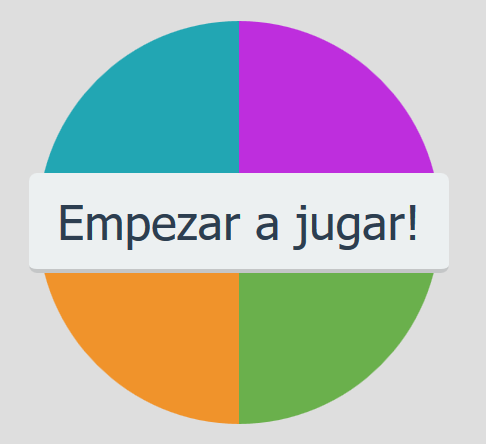
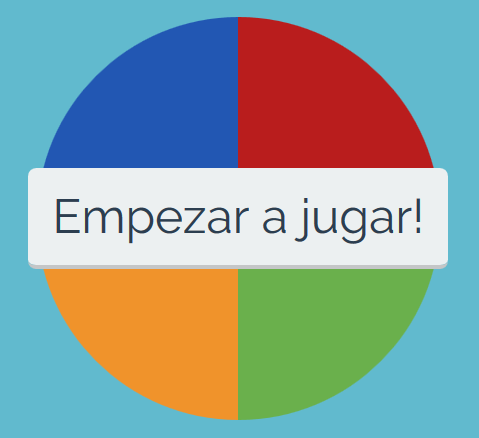
simon dice terminado

diff --git a/games/simondice/index.js b/games/simondice/index.js
@@ -1,18 +1,30 @@
-const azul = document.getElementById('azul')
-const rojo = document.getElementById('rojo')
-const naranja = document.getElementById('naranja')
-const verde = document.getElementById('verde')
-const verdeAudio = new Audio('./../../assets/audio/green.mp3')
-const rojoAudio = new Audio('./../../assets/audio/red.mp3')
-const azulAudio = new Audio('./../../assets/audio/blue.mp3')
-const naranjaAudio = new Audio('./../../assets/audio/naranja.mp3')
-const audioPerder = new Audio('./../../assets/audio/lose.mp3')
-const ULTIMO_NIVEL = 10
+let listaPuntajes = []
+let ULTIMO_NIVEL
 const btnEmpezar = document.getElementById('btnEmpezar')
 btnEmpezar.addEventListener('click', empezarJuego)
 
+function mensajeInicial(texto = 'Elige un nivel') {
+    return swal({
+        text: texto,
+        content: 'input',
+        button: {
+            text: "Go!",
+        },
+        closeOnClickOutside: false,
+        closeOnEsc: false
+    }).then(nivel => {
+        if (Number(nivel)) {
+            ULTIMO_NIVEL = Number(nivel)
+        } else {
+            mensajeInicial('Coloque el nivel adecuadamente')
+        }
+    })
+}
+
+mensajeInicial()
 class Juego {
     constructor() {
+        this.iniciarTiempo()
         this.inicializar()
         this.generarSecuencia()
         setTimeout(this.siguienteNivel, 500)
@@ -25,18 +37,19 @@ class Juego {
         btnEmpezar.classList.toggle('hide')
         this.nivel = 1
         this.colores = {
-            azul,
-            rojo,
-            naranja,
-            verde
+            azul: document.getElementById('azul'),
+            rojo: document.getElementById('rojo'),
+            naranja: document.getElementById('naranja'),
+            verde: document.getElementById('verde')
         },
         this.audio = {
-            azul: azulAudio,
-            rojo: rojoAudio,
-            naranja: naranjaAudio,
-            verde: verdeAudio
+            azul: new Audio('./../../assets/audio/blue.mp3'),
+            rojo: new Audio('./../../assets/audio/red.mp3'),
+            naranja: new Audio('./../../assets/audio/naranja.mp3'),
+            verde: new Audio('./../../assets/audio/green.mp3')
         },
-        this.derrota = audioPerder
+        this.derrota = new Audio('./../../assets/audio/lose.mp3'),
+        this.intervalTimer
     }
 
     generarSecuencia() {
@@ -93,7 +106,7 @@ class Juego {
     }
 
     agregarEventosClick() {
-        for(let color in this.colores) {
+        for (let color in this.colores) {
             this.colores[color].addEventListener('click', this.elegirColor)
         }
     }
@@ -114,24 +127,60 @@ class Juego {
                 this.nivel++
                 this.eliminarEventosClick()
                 if (this.nivel === (ULTIMO_NIVEL + 1)) {
+                    clearInterval(this.intervalTimer)
                     this.ganoElJuego()
+                    this.agregarItemPuntaje()
                 } else {
-                    setTimeout(this.siguienteNivel, 1500)
+                    setTimeout(() => {
+                        swal("Gamespoint - Simon Dice", `Nivel ${this.nivel - 1} completado`, {
+                            buttons: false,
+                            timer: 1000,
+                        })
+                    }, 500)
+                    setTimeout(this.siguienteNivel, 2000)
                 }
             }
         } else {
             this.perdioElJuego()
+            this.agregarItemPuntaje()
         }
     }
 
+    agregarItemPuntaje() {
+        const list = document.getElementById('timeList')
+        const tiempoTranscurrido = document.getElementById('timedate').textContent
+        listaPuntajes.push(tiempoTranscurrido)
+        console.log(listaPuntajes.sort((a, b) => b - a))
+        list.innerHTML = ""
+        for (let i = 0; i < listaPuntajes.length; i++) {
+            const li = document.createElement('li')
+            li.setAttribute('class', 'lista-puntaje-item')
+            li.appendChild(document.createTextNode(`Puntaje ${i + 1} : ${listaPuntajes[i]}`))
+            list.appendChild(li)
+        }
+    }
+
+    actualizarPuntaje(initTime) {
+        const now = new Date();
+        const milli = now.getTime() - initTime;
+        document.getElementById('timedate').innerHTML = milli;
+    }
+
+    iniciarTiempo() {
+        const initTime = new Date().getTime();
+        this.actualizarPuntaje(initTime);
+        this.intervalTimer = setInterval(this.actualizarPuntaje, 100, initTime);
+    }
+
     ganoElJuego() {
-        swal('Gamespoint','Felicitaciones, Ganaste!', 'success')
+        swal('Gamespoint - Simon Dice','Felicitaciones, Ganaste!', 'success')
             .then(this.inicializar)
     }
 
     perdioElJuego() {
+        clearInterval(this.intervalTimer)
         this.derrota.play()
-        swal('Gamespoint', 'Lo lamentamos, Perdiste :(', 'error')
+        swal('Gamespoint - Simon Dice', 'Lo lamentamos, Perdiste :(', 'error')
             .then(() => {
                 this.eliminarEventosClick()
                 this.inicializar()

diff --git a/games/simondice/style.css b/games/simondice/style.css
@@ -140,6 +140,10 @@ input, textarea {
         font-weight: var(--medium-weight);
     }
 /* SIMON DICE */
+h1 {
+    color: #61BACE;
+    color: var(--light-bg);
+}
 .gameboard-container {
     height: calc(100vh - 92px);
     display: flex;
@@ -147,6 +151,7 @@ input, textarea {
     position: relative;
     background: #61BACE;
     background: var(--light-bg);
+    position: relative;
 }
 .gameboard {
     height: 100vh;
@@ -213,11 +218,68 @@ input, textarea {
     outline: none;
 }
 .btn-start:hover {
-    color: #ecf0f1;
-    background: #2c3e50;
-    border-bottom: 4px solid #1f3346;
+    color: #fff;
+    color: var(--white);
+    background: #336E7B;
+    background: var(--primary-bg);
+    border-bottom: 4px solid #25505A;
 }
 .btn-start:active {
     -webkit-transform: scale(.95);
             transform: scale(.95);
 }
+.gameboard-puntuacion {
+    position: absolute;
+    right: 10%;
+    color: #fff;
+    color: var(--white)
+}
+.gameboard-puntuacion .puntaje {
+        display: flex;
+        align-items: center
+    }
+.gameboard-puntuacion .puntaje h2 {
+            padding: .5em 0;
+            padding-right: 1em;
+        }
+.gameboard-puntuacion .lista-puntaje {
+        height: 250px;
+        padding: .5em 0
+    }
+.gameboard-puntuacion .lista-puntaje h2 {
+            padding-bottom: 1em;
+        }
+.gameboard-puntuacion .lista-puntaje #timeList {
+            height: 100%;
+            overflow: auto;
+            padding-right: 1em
+        }
+.gameboard-puntuacion .lista-puntaje #timeList::-webkit-scrollbar {
+                width: 12px;
+            }
+.gameboard-puntuacion .lista-puntaje #timeList {
+            
+            /* Track */
+        }
+.gameboard-puntuacion .lista-puntaje #timeList::-webkit-scrollbar-track {
+                -webkit-box-shadow: inset 0 0 6px rgba(0,0,0,0.3);
+                border-radius: 10px;
+            }
+.gameboard-puntuacion .lista-puntaje #timeList {
+            
+            /* Handle */
+        }
+.gameboard-puntuacion .lista-puntaje #timeList::-webkit-scrollbar-thumb {
+                border-radius: 10px;
+                background: #336E7B;
+                background: var(--primary-bg); 
+                -webkit-box-shadow: inset 0 0 6px rgba(0,0,0,0.5); 
+            }
+.gameboard-puntuacion .lista-puntaje #timeList::-webkit-scrollbar-thumb:window-inactive {
+                background: rgba(255,0,0,0.4); 
+            }
+.gameboard-puntuacion .lista-puntaje .lista-puntaje-item {
+            padding: 1em;
+            border: 2px solid #ccc;
+            margin-bottom: .5em;
+        }

diff --git a/games/simondice/index.html b/games/simondice/index.html
@@ -18,6 +18,7 @@
                 <img src="./../../assets/logo.png" alt="Logo Gamespoint">
               </a>
             </figure>
+            <h1>Simon Dice</h1>
           </div>
         </div>
       </nav>
@@ -28,6 +29,17 @@
           <div id="naranja" class="color naranja left" data-color="naranja"></div>
           <div id="verde" class="color verde right" data-color="verde"></div>
           <button id="btnEmpezar" class="btn-start">Empezar a jugar!</button>
+        </div>
+        <div class="gameboard-puntuacion">
+          <div class="puntaje">
+            <h2>Puntaje</h2>
+            <div id="timedate"></div>
+          </div>
+          <div class="lista-puntaje">
+            <h2>Puntajes más altos</h2>
+            <ul id="timeList">
+            </ul>
+          </div>
         </div>
       </div>
     </section>

diff --git a/dist/css/home.css b/dist/css/home.css
@@ -425,8 +425,7 @@ input, textarea {
                     color: #fff;
                     color: var(--white);
                     border: 1px solid #eaeaea;
-                    border: 1px solid var(--secondary-bg);
-                    border-right: none
+                    border: 1px solid var(--secondary-bg)
                 }
 .footer .footer-wrap .footer-links .footer-language select option {
                         font-size: .6em;
